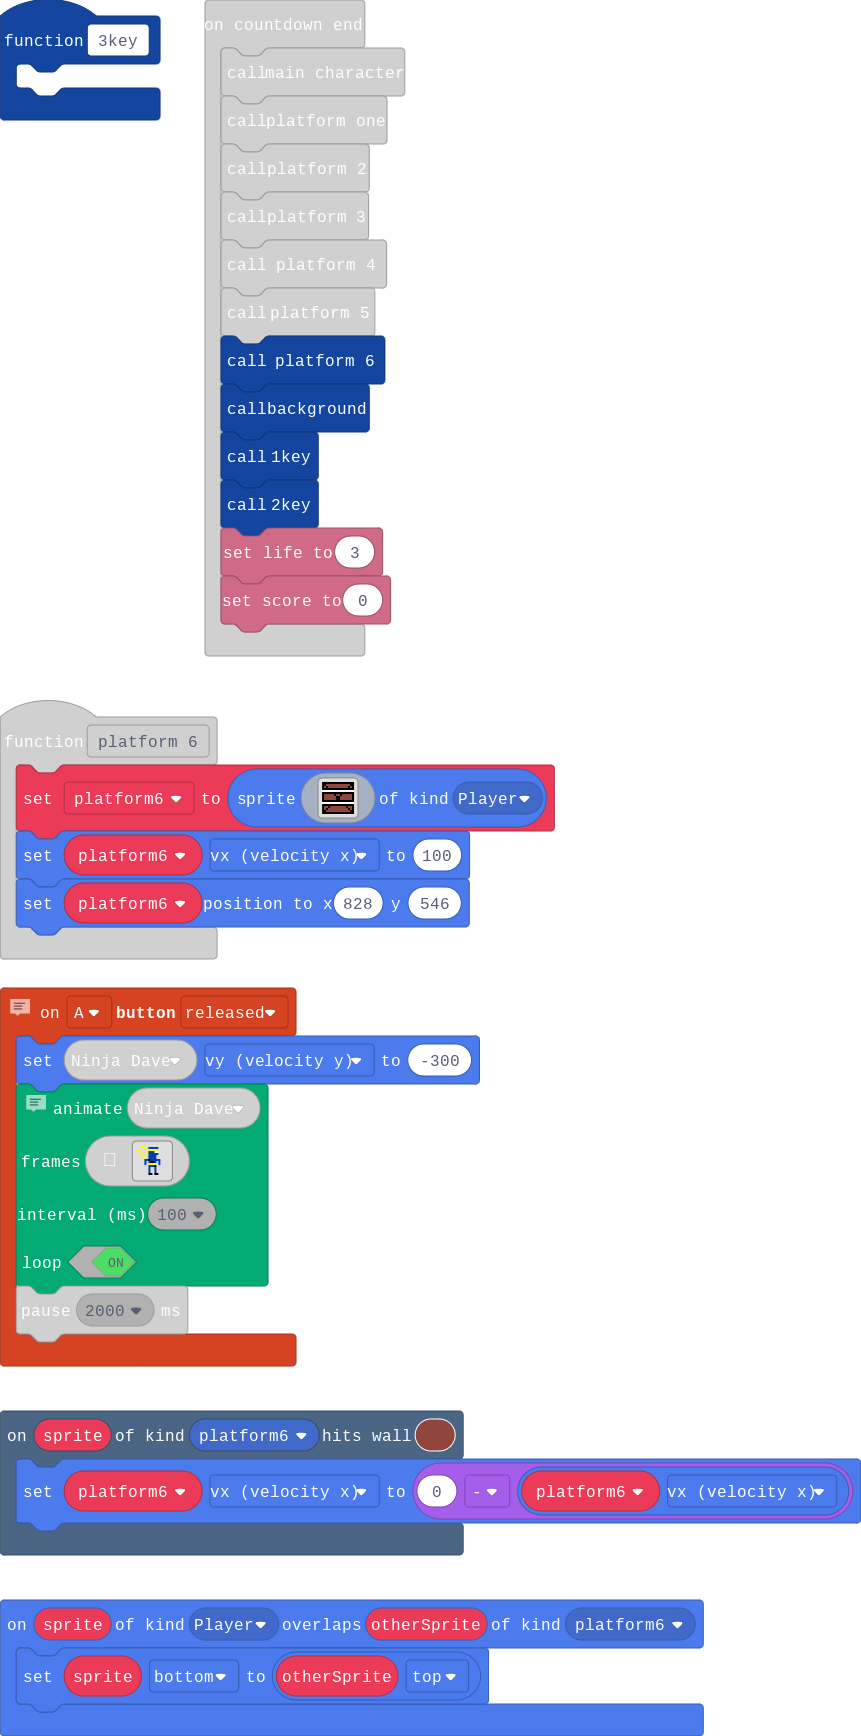
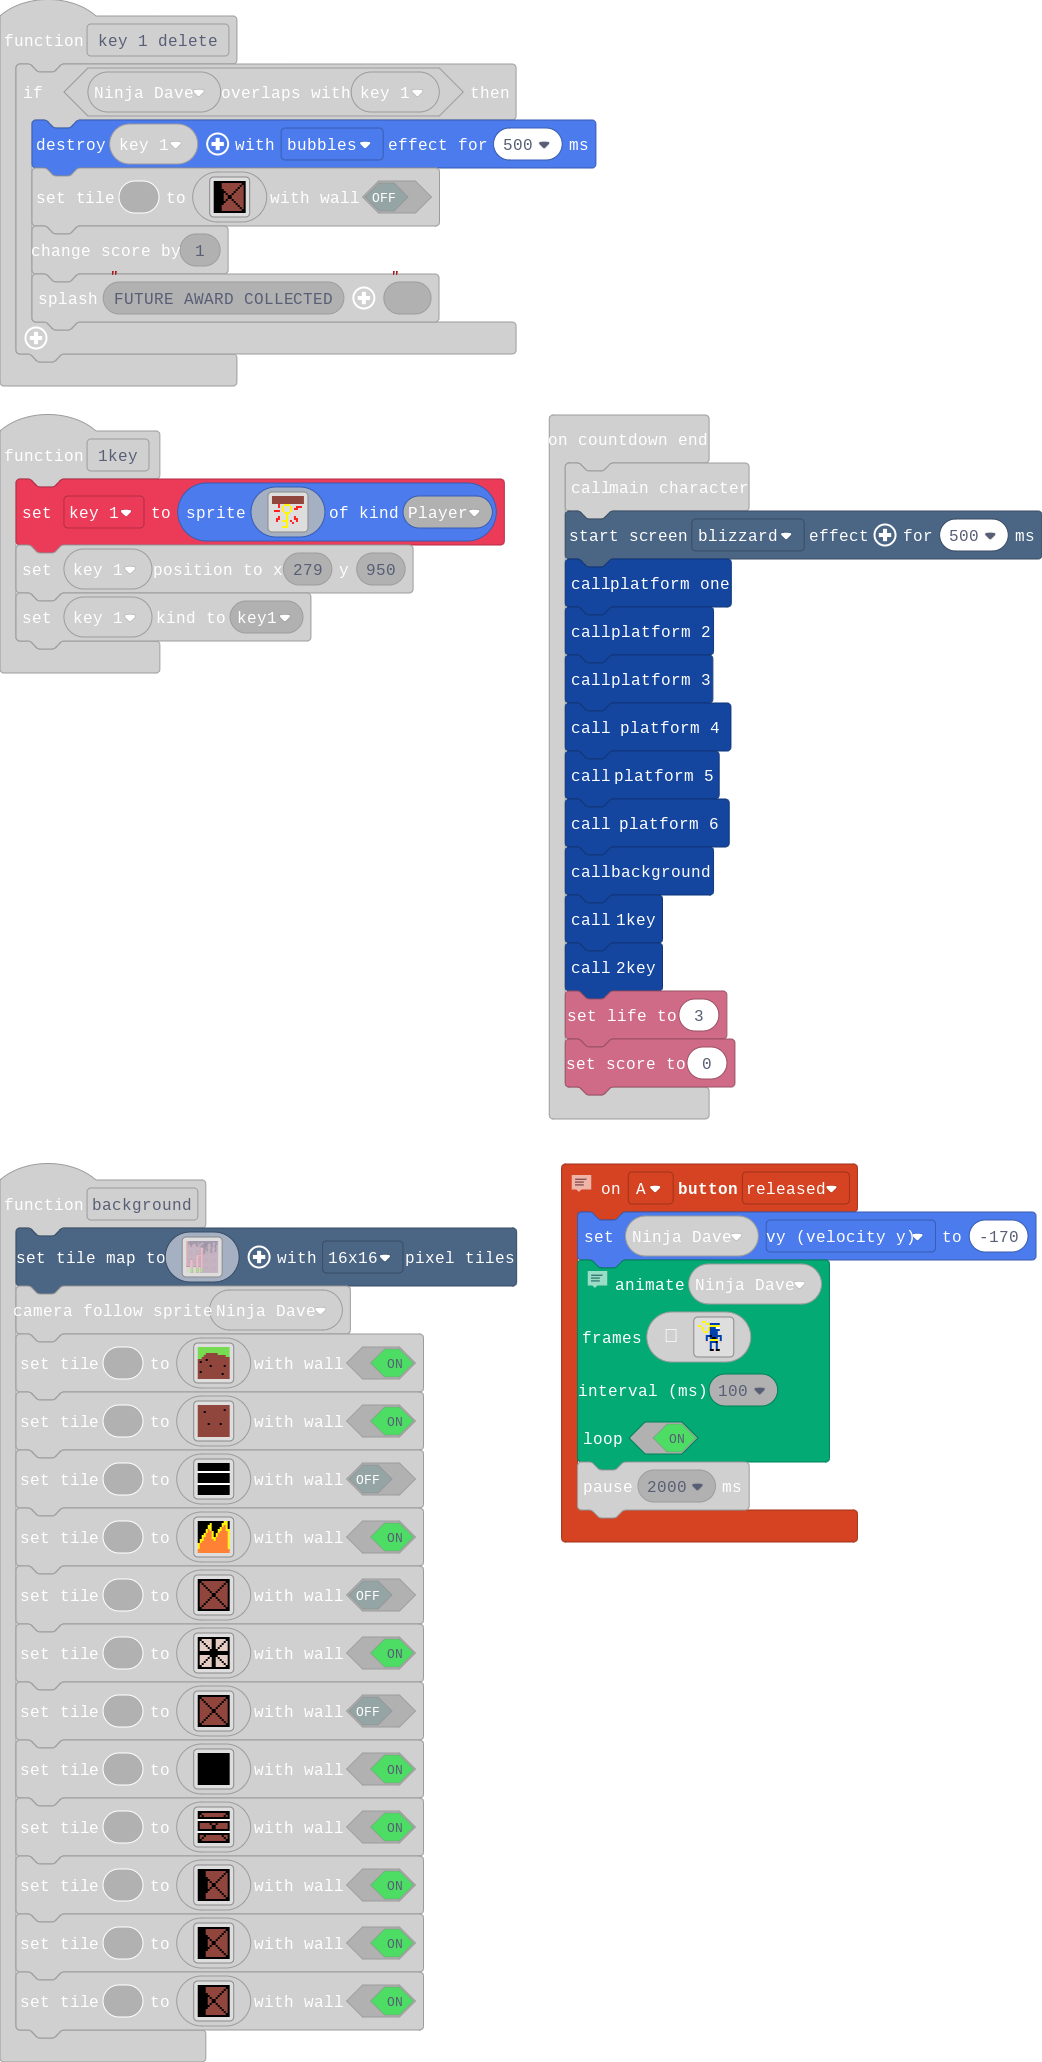
changes

diff --git a/main.ts b/main.ts
@@ -33,9 +33,6 @@ f f f f f f f f f f f f f f f f
     platform6.vx = 100
     platform6.setPosition(828, 546)
 }
-function _3key () {
-	
-}
 // Will create ninja
 function main_character () {
     // Moves the character
@@ -90,9 +87,12 @@ f f f f f f f f f f f f f f f f
     platform4.vx = 100
     platform4.setPosition(825, 651)
 }
+function _3key () {
+	
+}
 function key_1_delete () {
     if (Ninja_Dave.overlapsWith(key_1)) {
-        key_1.destroy()
+        key_1.destroy(effects.bubbles, 500)
         scene.setTile(6, img`
 f f f f f f f f f f f f f f f f 
 f f f f e e e e e e e e e e f f 
@@ -551,14 +551,14 @@ function background () {
 2 2 1 b b b b b b b b b b b b b b b b b b b b b b b b b b b b b b b b b b b b b b b b b b e 3 3 3 3 3 3 e b b c c c c c b b b c c c c c c c b b b b b b c c c c c b b b b b b b b b c c c c c b b b b b 
 2 2 1 b b b b b b b b b b b b b b b b b b b b b b b b b b b b b b b b b b b b b b b b b b e 5 3 3 3 3 3 e b b c c c c c b b b c c c c c c c b b b b b b c c c c c b b b b b b b b c c c c c c b b b b b 
 2 2 1 b b b b b b b b b b b b b b b b b b b b b b b b b b b b b b b b b b b b b b b b b b e 3 3 3 3 3 3 e b c c c c c c b b b b c c c c c c b b b b b b c c c c c b b b b b b b b c c c c c c b b b b b 
-2 2 1 b b b b b b b b b b b b b b b b b b b b b b b b b b b b b b b b b b b b b b b b b b e 3 3 3 3 3 5 e b c c c c c c b b b b c c c c c c b b b b b b c c c c c b b b b b b b b c c c c c c b b b b b 
+2 2 1 b b b b b b b b b b b b b b b b b b b b b b b b b b b b b b b b b b b b b b b b b b e 3 3 3 3 5 5 e b c c c c c c b b b b c c c c c c b b b b b b c c c c c b b b b b b b b c c c c c c b b b b b 
 2 2 1 b b b b b b b b b b b b b b b b b b b b b b b b b b b b b b b b b b b b b b b b b b e 3 3 3 3 3 3 e b c c c c c c b b b b b b b b b b b b b b b b c c c c c b b b b b b b b c c c c c c b b b b b 
 2 2 1 b b b b b b b b b b b b b b b b b b b b b b b b b b b b b b b b b b b b b b b b b b e 3 3 3 3 3 3 e b c c c c c c b b b b b b b b b b b b b b b b c c c c c b b b b b b b b c c c c c c b b b b b 
 2 2 1 b b b b b b b b b b b b b b b b b b b b b b b b b b b b b b b b b b b b b b b b b b e 3 3 3 3 3 3 e b c c c c c b b b b b b b b b b b b b b b b b c c c c c b b b b b b b b b b b b b b b b b b b 
+2 2 1 b b b b b b b b b b b b b b b b b b b b b b b b b b b b b b b b b b b b b b b b b b e 5 3 3 3 3 3 e c c c c c c b b b b b b b b b b b b b b b b b c c c c c b b b b b b b b b b b b b b b b b b b 
 2 2 1 b b b b b b b b b b b b b b b b b b b b b b b b b b b b b b b b b b b b b b b b b b e 3 3 3 3 3 3 e c c c c c c b b b b b b b b b b b b b b b b b c c c c c b b b b b b b b b b b b b b b b b b b 
 2 2 1 b b b b b b b b b b b b b b b b b b b b b b b b b b b b b b b b b b b b b b b b b b e 3 3 3 3 3 3 e c c c c c c b b b b b b b b b b b b b b b b b c c c c c b b b b b b b b b b b b b b b b b b b 
-2 2 1 b b b b b b b b b b b b b b b b b b b b b b b b b b b b b b b b b b b b b b b b b b e 3 3 3 3 3 3 e c c c c c c b b b b b b b b b b b b b b b b b c c c c c b b b b b b b b b b b b b b b b b b b 
-2 2 1 b b b b b b b b b b b b b b b b b b b b b b b b b b b b b b b b b b b b b b b b b b e 3 3 3 3 3 3 e c c c c c c b b b b b b b b b b b b b b b b b b b b b b b b b b b b b b b b b b b b b b b b b 
+2 2 1 b b b b b b b b b b b b b b b b b b b b b b b b b b b b b b b b b b b b b b b b b b e 3 3 3 3 3 5 e c c c c c c b b b b b b b b b b b b b b b b b b b b b b b b b b b b b b b b b b b b b b b b b 
 2 2 1 b b b b b b b b b b b b b b b b b b b b b b b b b b b b b b b b b b b b b b b b b b e 3 3 3 3 3 3 e c c c c c b b b b b b b b b b b b b b b b b b b b b b b b b b b b b b b b b b b b b b b b b b 
 2 2 1 b b b b b b b b b b b b b b b b b b b b b b b b b b b b b b b b b b b b b b b b b b e 3 3 3 3 3 3 e c c c c c b b b b b b b b b b b b b b b b b b b b b b b b b b b b b b b b b b b b b b b b b b 
 2 2 1 b b b b b b b b b b b b b b b b b b b b b b b b b b b b b b b b b b b b b b b b b b e 3 3 3 3 3 3 e b b b b b b b b b b b b b b b b b b b b b b b b b b b b b b b b b b b b b b b b b b b b b b b 
@@ -567,48 +567,48 @@ function background () {
 2 2 1 b b b b b b b b b b b b b b b b b b b b b b b b b b b b e 3 3 3 3 3 3 3 4 3 3 3 3 3 3 3 3 3 3 3 3 e b b b b b b b b b b b b b b b b b b b b b b b b b b b b b b b b b b b b b b b b b b b b b b b 
 2 2 1 b b b b b b b b b b b b b b b b b b b b b b b b b b b b e 3 3 3 3 3 3 3 4 3 3 3 3 3 3 3 3 3 3 3 3 e b b b b b b b b b b b b b b b b b b b b b b b b b b b b b b b b b b b b b b b b b b b b b b b 
 2 2 1 b b b b b b b b b b b b b b b b b b b b b b b b b b b b e 3 3 3 3 3 3 3 e e e e e e e 3 3 3 3 3 3 e b b b b b b b b b b b b b b b b b b b b b b b b b b b b b b b b b b b b b b b b b b b b b b b 
-2 2 1 b b b b b b b b b b b b b b b b b b b b b b b b b b b b e 5 3 3 3 3 3 3 e b b b b b e 3 3 3 3 3 3 e b b b b b b b b b b b b b b b b b b b b b b b b b b b b b b b b b b b b b b b b b b b b b b b 
+2 2 1 b b b b b b b b b b b b b b b b b b b b b b b b b b b b e 5 3 3 3 3 3 5 e b b b b b e 3 3 3 3 3 3 e b b b b b b b b b b b b b b b b b b b b b b b b b b b b b b b b b b b b b b b b b b b b b b b 
+2 2 1 b b b b b b b b b b b b b b b b b b b b b b b b b b b b e 3 3 3 3 3 3 3 e b b b b b e 5 3 3 3 3 3 e b b b b b b b b b b b b b b b b b b b b b b b b b b b b b b b b b b b b b b b b b b b b b b b 
+2 2 1 b b b b b b b b b b b b b b b b b b b b b b b b b b b b e 3 3 3 3 3 3 3 e b b b b b e 3 3 3 3 3 3 e b b b b b b b b b b b b b b b b b b b b b b b b b b b b b b b b b b b b b b b b b b b b b b b 
+2 2 1 b b b b b b b b b b b b b b b b b b b b b b b b b b b b e 5 3 3 3 3 3 5 e b b b b b e 3 3 3 3 3 5 e b b b b b b b b b b b b b b b b b b b b b b b b b b b b b b b b b b b b b b b b b b b b b b b 
+2 2 1 b b b b b b b b b b b b b b b b b b b b b b b b b b b b e 3 3 3 3 3 3 3 e b b b b b e 3 3 3 3 3 3 e b b b b b b b b b b b b b b b b b b b b b b b b b b b b b b b b b b b b b b b b b b b b b b b 
+2 2 1 b b b b b b b b b b b b b b b b b b b b b b b b b b b b e 3 3 3 3 3 3 3 e b b b b b e 5 3 3 3 3 3 e b b b b b b b b b b b b b b b b b b b b b b b b b b b b b b b b b b b b b b b b b b b b b b b 
 2 2 1 b b b b b b b b b b b b b b b b b b b b b b b b b b b b e 3 3 3 3 3 3 3 e b b b b b e 3 3 3 3 3 3 e b b b b b b b b b b b b b b b b b b b b b b b b b b b b b b b b b b b b b b b b b b b b b b b 
 2 2 1 b b b b b b b b b b b b b b b b b b b b b b b b b b b b e 3 3 3 3 3 3 3 e b b b b b e 3 3 3 3 3 3 e b b b b b b b b b b b b b b b b b b b b b b b b b b b b b b b b b b b b b b b b b b b b b b b 
-2 2 1 b b b b b b b b b b b b b b b b b b b b b b b b b b b b e 5 3 3 3 3 3 3 e b b b b b e 3 3 3 3 3 3 e b b b b b b b b b b b b b b b b b b b b b b b b b b b b b b b b b b b b b b b b b b b b b b b 
+2 2 1 b b b b b b b b b b b b b b b b b b b b b b b b b b b b e 3 3 3 3 3 3 3 e b b b b b e 3 3 3 3 3 5 e b b b b b b b b b b b b b b b b b b b b b b b b b b b b b b b b b b b b b b b b b b b b b b b 
 2 2 1 b b b b b b b b b b b b b b b b b b b b b b b b b b b b e 3 3 3 3 3 3 3 e b b b b b e 3 3 3 3 3 3 e b b b b b b b b b b b b b b b b b b b b b b b b b b b b b b b b b b b b b b b b b b b b b b b 
-2 2 1 b b b b b b b b b b b b b b b b b b b b b b b b b b b b e 3 3 3 3 3 3 3 e b b b b b e 3 3 3 3 3 3 e b b b b b b b b b b b b b b b b b b b b b b b b b b b b b b b b b b b b b b b b b b b b b b b 
-2 2 1 b b b b b b b b b b b b b b b b b b b b b b b b b b b b e 3 3 3 3 3 3 3 e b b b b b e 3 3 3 3 3 3 e b b b b b b b b b b b b b b b b b b b b b b b b b b b b b b b b b b b b b b b b b b b b b b b 
-2 2 1 b b b b b b b b b b b b b b b b b b b b b b b b b b b b e 3 3 3 3 3 3 3 e b b b b b e 3 3 3 3 3 3 e b b b b b b b b b b b b b b b b b b b b b b b b b b b b b b b b b b b b b b b b b b b b b b b 
-2 2 1 b b b b b b b b b b b b b b b b b b b b b b b b b b b b e 3 3 3 3 3 3 3 e b b b b b e 3 3 3 3 3 3 e b b b b b b b b b b b b b b b b b b b b b b b b b b b b b b b b b b b b b b b b b b b b b b b 
-2 2 1 b b b b b b b b b b b b b b b b b b b b b b b b b b b b e 3 3 3 3 3 3 3 e b b b b b e 3 3 3 3 3 3 e b b b b b b b b b b b b b b b b b b b b b b b b b b b b b b b b b b b b b b b b b b b b b b b 
-2 2 1 b b b b b b b b b b b b b b b b b b b b b b b b b b b b e 3 3 3 3 3 3 3 e b b b b b e 3 3 3 3 3 3 e b b b b b b b b b b b b b b b b b b b b b b b b b b b b b b b b b b b b b b b b b b b b b b b 
+2 2 1 b b b b b b b b b b b b b b b b b b b b b b b b b b b b e 3 3 3 3 3 3 3 e b b b b b e 5 3 3 3 3 3 e b b b b b b b b b b b b b b b b b b b b b b b b b b b b b b b b b b b b b b b b b b b b b b b 
 2 2 1 b b b b b b b b b e e e e e e e e e e b b b b b b b b b e 5 3 3 3 3 3 3 e b b b b b e 3 3 3 3 3 3 e b b b b b b b b b b b b b b b b b b b b b b b b b b b b b b b b b b b b b b b b b b b b b b b 
 2 2 1 b b b b b b b b b e 3 3 3 3 3 3 3 3 e b b b b b b b b b e 3 3 3 3 3 3 3 e b b b b b e 3 3 3 3 3 3 e b b b b b b b b b b b b b b b b b b b b b b b b b b b b b b b b b b b b b b b b b b b b b b b 
-2 2 1 b b b b b b b b b e 3 3 3 3 3 3 3 3 e e e e e e e e e e e 3 3 3 3 3 3 3 e b b b b b e 3 3 3 3 3 3 e b b b b b b b b b b b b b b b b b b b b b b b b b b b b b b b b b b b b b b b b b b b b b b b 
+2 2 1 b b b b b b b b b e 3 3 3 3 3 3 3 3 e e e e e e e e e e e 3 3 3 3 3 3 3 e b b b b b e 3 3 3 3 3 5 e b b b b b b b b b b b b b b b b b b b b b b b b b b b b b b b b b b b b b b b b b b b b b b b 
 2 2 1 b b b b b b b b b e 3 3 3 3 3 3 3 3 6 3 3 3 3 3 3 3 3 3 3 3 3 3 3 3 3 5 e b b b b b e 3 3 3 3 3 3 e b b b b b b b b b b b b b b b b b b b b b b b b b b b b b b b b b b b b b b b b b b b b b b b 
 2 2 1 b b b b b b b b b e 5 3 3 3 3 3 3 3 6 3 3 3 3 3 3 3 3 3 3 3 3 3 3 3 3 3 e b b b b b e 3 3 3 3 3 3 e b b b b b b b b b b b b b b b b b b b b b b b b b b b b b b b b b b b b b b b b b b b b b b b 
-2 2 1 b b b b b b b b b e 3 3 3 3 3 3 3 3 e e e e e e e e e e e 3 3 3 3 3 3 3 e b b b b b e 3 3 3 3 3 3 e b b b b b b b b b b b b b b b b b b b b b b b b b b b b b b b b b b b b b b b b b b b b b b b 
+2 2 1 b b b b b b b b b e 3 3 3 3 3 3 3 3 e e e e e e e e e e e 3 3 3 3 3 3 3 e b b b b b e 3 3 3 5 3 3 e b b b b b b b b b b b b b b b b b b b b b b b b b b b b b b b b b b b b b b b b b b b b b b b 
 2 2 1 b b b b b b b b b e 3 3 3 3 5 3 3 3 e b b b b b b b b b e 3 3 3 3 3 3 3 e b b b b b e 3 3 3 3 3 3 e b b b b b b b b b b b b b b b b b b b b b b b b b b b b b b b b b b b b b b b b b b b b b b b 
+2 2 1 b b b b b b b b b e 3 3 3 3 3 3 3 5 e b b b b b b b b b e 5 3 3 3 3 3 3 e b b b b b e 3 3 3 3 3 3 e b b b b b b b b b b b b b b b b b b b b b b b b b b b b b b b b b b b b b b b b b b b b b b b 
+2 2 1 b b b b b b b b b e 3 3 3 3 3 3 3 3 e b b b b b b b b b e 3 3 3 3 3 3 5 e b b b b b e 3 3 3 3 3 3 e b b b b b b b b b b b b b b b b b b b b b b b b b b b b b b b b b b b b b b b b b b b b b b b 
+2 2 1 b b b b b b b b b e 5 3 3 3 3 3 3 3 e b b b b b b b b b e 3 3 3 3 3 3 3 e b b b b b e 3 3 3 3 3 3 e b b b b b b b b b b b b b b b b b b b b b b b b b b b b b b b b b b b b b b b b b b b b b b b 
+2 2 1 b b b b b b b b b e 3 3 3 3 3 3 3 3 e b b b b b b b b b e 3 3 3 3 3 3 3 e b b b b b e 3 3 3 3 3 3 e b b b b b b b b b b b b b b b b b b b b b b b b b b b b b b b b b b b b b b b b b b b b b b b 
+2 2 1 b b b b b b b b b e 3 3 3 3 3 3 3 3 e b b b b b b b b b e 5 3 3 3 3 3 3 e b b b b b e 3 3 3 3 3 3 e b b b b b b b b b b b b b b b b b b b b b b b b b b b b b b b b b b b b b b b b b b b b b b b 
+2 2 1 b b b b b b b b b e 3 3 3 3 3 3 3 3 e b b b b b b b b b e 3 3 3 3 3 3 3 e b b b b b e 3 3 3 3 3 3 e b b b b b b b b b b b b b b b b b b b b b b b b b b b b b b b b b b b b b b b b b b b b b b b 
 2 2 1 b b b b b b b b b e 3 3 3 3 3 3 3 5 e b b b b b b b b b e 3 3 3 3 3 3 3 e b b b b b e 3 3 3 3 3 3 e b b b b b b b b b b b b b b b b b b b b b b b b b b b b b b b b b b b b b b b b b b b b b b b 
 2 2 1 b b b b b b b b b e 3 3 3 3 3 3 3 3 e b b b b b b b b b e 3 3 3 3 3 3 3 e b b b b b e 3 3 3 3 3 3 e b b b b b b b b b b b b b b b b b b b b b b b b b b b b b b b b b b b b b b b b b b b b b b b 
 2 2 1 b b b b b b b b b e 5 3 3 3 3 3 3 3 e b b b b b b b b b e 3 3 3 3 3 3 3 e b b b b b e 3 3 3 3 3 3 e b b b b b b b b b b b b b b b b b b b b b b b b b b b b b b b b b b b b b b b b b b b b b b b 
-2 2 1 b b b b b b b b b e 3 3 3 3 3 3 3 3 e b b b b b b b b b e 3 3 3 3 3 3 3 e b b b b b e 3 3 3 3 3 3 e b b b b b b b b b b b b b b b b b b b b b b b b b b b b b b b b b b b b b b b b b b b b b b b 
-2 2 1 b b b b b b b b b e 3 3 3 3 3 3 3 3 e b b b b b b b b b e 3 3 3 3 3 3 3 e b b b b b e 3 3 3 3 3 3 e b b b b b b b b b b b b b b b b b b b b b b b b b b b b b b b b b b b b b b b b b b b b b b b 
-2 2 1 b b b b b b b b b e 3 3 3 3 3 3 3 3 e b b b b b b b b b e 3 3 3 3 3 3 3 e b b b b b e 3 3 3 3 3 3 e b b b b b b b b b b b b b b b b b b b b b b b b b b b b b b b b b b b b b b b b b b b b b b b 
-2 2 1 b b b b b b b b b e 3 3 3 3 3 3 3 5 e b b b b b b b b b e 3 3 3 3 3 3 3 e b b b b b e 3 3 3 3 3 3 e b b b b b b b b b b b b b b b b b b b b b b b b b b b b b b b b b b b b b b b b b b b b b b b 
-2 2 1 b b b b b b b b b e 3 3 3 3 3 3 3 3 e b b b b b b b b b e 3 3 3 3 3 3 3 e b b b b b e 3 3 3 3 3 3 e b b b b b b b b b b b b b b b b b b b b b b b b b b b b b b b b b b b b b b b b b b b b b b b 
-2 2 1 b b b b b b b b b e 5 3 3 3 3 3 3 3 e b b b b b b b b b e 3 3 3 3 3 3 3 e b b b b b e 3 3 3 3 3 3 e b b b b b b b b b b b b b b b b b b b b b b b b b b b b b b b b b b b b b b b b b b b b b b b 
-2 2 1 b b b b b b b b b e 3 3 3 3 3 3 3 3 e b b b b b b b b b e 3 3 3 3 3 3 3 e b b b b b e 3 3 3 3 3 3 e b b b b b b b b b b b b b b b b b b b b b b b b b b b b b b b b b b b b b b b b b b b b b b b 
+2 2 1 b b b b b b b b b e 3 3 3 3 3 3 3 3 e b b b b b b b b b e 3 3 3 3 3 3 5 e b b b b b e 3 3 3 3 3 3 e b b b b b b b b b b b b b b b b b b b b b b b b b b b b b b b b b b b b b b b b b b b b b b b 
 2 2 1 b b b b b b b b b e 3 3 3 3 3 3 3 3 e b b b b b b b b b e 3 3 3 3 3 3 3 e b b b b b e 3 3 3 3 3 3 e b b b b b b b b b b b b b b b b b b b b b b b b b b b b b b b b b b b b b b b b b b b b b b b 
 2 2 1 b b b b b b b b b e 3 3 3 3 3 3 3 5 e b b b b b b b b b e 3 3 3 3 3 3 3 e b b b b b e 3 3 3 3 3 3 e b b b b b b b b b b b b b b b b b b b b b b b b b b b b b b b b b b b b b b b b b b b b b b b 
-2 2 1 b b b b b b b b b e 3 3 3 3 3 3 3 3 e b b b b b b b b b e 3 3 3 3 3 3 3 e b b b b b e 3 3 3 3 3 3 e b b b b b b b b b b b b b b b b b b b b b b b b b b b b b b b b b b b b b b b b b b b b b b b 
+2 2 1 b b b b b b b b b e 3 3 3 3 3 3 3 3 e b b b b b b b b b e 3 3 3 5 3 3 3 e b b b b b e 3 3 3 3 3 3 e b b b b b b b b b b b b b b b b b b b b b b b b b b b b b b b b b b b b b b b b b b b b b b b 
 2 2 b b b b b b b b b b b 3 3 3 3 3 3 3 3 e b b b b b b b b b e 3 3 3 3 3 3 3 e b b b b b e 3 3 3 3 3 3 e b b b b b b b b b b b b b b b b b b b b b b b b b b b b b b b b b b b b b b b b b b b b b b b 
 2 2 b b b b b b b b b b b 3 3 3 3 3 3 3 3 e b b b b b b b b b e 3 3 3 3 3 3 3 e b b b b b e 3 3 3 3 3 3 e b b b b b b b b b b b b b b b b b b b b b b b b b b b b b b b b b b b b b b b b b b b b b b b 
 f f f f f f f f f f f f f 3 3 3 3 3 3 3 3 e f f f f f f f f f e 3 3 3 3 3 3 3 e f f f f f e 3 3 3 3 3 3 e b b b b b b b b b b b b b b b b b b b b b b b b b b b b b b b b b b b b b b b b b b b b b b b 
 d d d d d d d d d d d d d 3 3 3 3 3 3 3 3 e d d d d d d d d d e 3 3 3 3 3 3 3 e d d d d d e 3 3 3 3 3 3 e b b b b b b b b b b b b b b b b b b b b b b b b b b b b b b b b b b b b b b b b b b b b b b b 
+d d d d d d d d d d d d d 5 3 3 3 3 3 3 3 e d d d d d d d d d e 3 3 3 3 3 3 3 e d d d d d e 3 3 3 3 3 3 e b b b b b b b b b b b b b b b b b b b b b b b b b b b b b b b b b b b b b b b b b b b b b b b 
 d d d d d d d d d d d d d 3 3 3 3 3 3 3 3 e d d d d d d d d d e 3 3 3 3 3 3 3 e d d d d d e 3 3 3 3 3 3 e b b b b b b b b b b b b b b b b b b b b b b b b b b b b b b b b b b b b b b b b b b b b b b b 
-d d d d d d d d d d d d d 3 3 3 3 3 3 3 3 e d d d d d d d d d e 3 3 3 3 3 3 3 e d d d d d e 3 3 3 3 3 3 e b b b b b b b b b b b b b b b b b b b b b b b b b b b b b b b b b b b b b b b b b b b b b b b 
+d d d d d d d d d d d d d 7 7 7 7 7 7 7 7 e d d d d d d d d d e 7 7 7 7 7 7 7 e d d d d d e 7 7 7 7 7 7 e b b b b b b b b b b b b b b b b b b b b b b b b b b b b b b b b b b b b b b b b b b b b b b b 
+d d d d d d d d d d d d d 7 7 7 7 7 7 7 5 e d d d d d d d d d e 7 7 7 7 7 7 7 e d d d d d e 7 7 7 7 7 7 e b b b b b b b b b b b b b b b b b b b b b b b b b b b b b b b b b b b b b b b b b b b b b b b 
 d d d d d d d d d d d d d 7 7 7 7 7 7 7 7 e d d d d d d d d d e 7 7 7 7 7 7 7 e d d d d d e 7 7 7 7 7 7 e b b b b b b b b b b b b b b b b b b b b b b b b b b b b b b b b b b b b b b b b b b b b b b b 
 d d d d d d d d d d d d d 7 7 7 7 7 7 7 7 e d d d d d d d d d e 7 7 7 7 7 7 7 e d d d d d e 7 7 7 7 7 7 e b b b b b b b b b b b b b b b b b b b b b b b b b b b b b b b b b b b b b b b b b b b b b b b 
-d d d d d d d d d d d d d 7 7 7 7 7 7 7 7 e d d d d d d d d d e 7 7 7 7 7 7 7 e d d d d d e 7 7 7 7 7 7 e b b b b b b b b b b b b b b b b b b b b b b b b b b b b b b b b b b b b b b b b b b b b b b b 
-d d d d d d d d d d d d d 7 7 7 7 7 7 7 7 e d d d d d d d d d e 7 7 7 7 7 7 7 e d d d d d e 7 7 7 7 7 7 e b b b b b b b b b b b b b b b b b b b b b b b b b b b b b b b b b b b b b b b b b b b b b b b 
-d d d d d d d d d d d d d 7 7 7 7 7 7 7 7 e d d d d d d d d d e 7 7 7 7 7 7 7 e d d d d d e 7 7 7 7 7 7 e b b b b b b b b b b b b b b b b b b b b b b b b b b b b b b b b b b b b b b b b b b b b b b b 
+d d d d d d d d d d d d d 5 7 7 7 7 7 7 7 e d d d d d d d d d e 7 7 7 7 7 7 7 e d d d d d e 7 7 7 7 7 7 e b b b b b b b b b b b b b b b b b b b b b b b b b b b b b b b b b b b b b b b b b b b b b b b 
 d d d d d d d d d d d d d 7 7 7 7 7 7 7 7 e d d d d d d d d d e 7 7 7 7 7 7 7 e d d d d d e 7 7 7 7 7 7 e b b b b b b b b b b b b b b b b b b b b b b b b b b b b b b b b b b b b b b b b b b b b b b b 
 d d d d d d d d d d d d d 7 7 7 7 7 7 7 7 e d d d d d d d d d e 7 7 7 7 7 7 7 e d d d d d e 7 7 7 7 7 7 e b b b b b b b b b b b b b b b b b b b b b b b b b b b b b b b b b b b b b b b b b b b b b b b 
 d d d d d d d d d d d d d 7 7 7 7 7 7 7 7 e d d d d d d d d d e 7 7 7 7 7 7 7 e d d d d d e 7 7 7 7 7 7 e b b b b b b b b b b b b b b b b b b b b b b b b b b b b b b b b b b b b b b b b b b b b b b b 
@@ -857,18 +857,18 @@ e e e e e e e e e e e e e e e e
 e e e e e e e e e e e e e e e e 
 e e e e e e e e e e e e e e e e 
 e e e e e e e e e e e e e e e e 
-. . . . . . 1 1 1 . . . . . . . 
-. . . . . 1 . . . 1 . . . . . . 
-. . . . . 1 . . . 1 . . . . . . 
-. . . . . 1 . . . 1 . . . . . . 
-. . . . . . 1 1 1 . . . . . . . 
-. . . . . . . 1 . . . . . . . . 
-. . . . . . 1 1 . . . . . . . . 
-. . . . . . . 1 . . . . . . . . 
-. . . . . . 1 1 . . . . . . . . 
-. . . . . . . . . . . . . . . . 
-. . . . . . . . . . . . . . . . 
-. . . . . . . . . . . . . . . . 
+. . . 2 . . 5 5 5 . . . . . . . 
+. . . 2 . 5 . . . 5 . . 2 2 2 . 
+. . . . . 5 . . . 5 . 2 2 . . . 
+. 2 2 2 . 5 . . . 5 . . . . . . 
+. . . . . . 5 5 5 . . . . . . . 
+. . . . . . . 5 . . . . . . . . 
+. . . 2 . . . 5 . . . 2 . . . . 
+. . 2 2 . . . 5 . . . 2 2 . . . 
+. . 2 . . 5 5 5 . 2 . . 2 . . . 
+. . . . . . . 5 . . 2 . . . . . 
+. . . . . . . 5 . . . . . . . . 
+. . . . . 5 5 5 . . . . . . . . 
 `, SpriteKind.Player)
     key_1.setPosition(279, 950)
     key_1.setKind(SpriteKind.key1)
@@ -1044,6 +1044,7 @@ scene.onHitTile(SpriteKind.platform2, 14, function (sprite) {
 })
 info.onCountdownEnd(function () {
     main_character()
+    effects.blizzard.startScreenEffect(500)
     platform_one()
     platform_2()
     platform_3()
@@ -1124,7 +1125,7 @@ f f f f f f f f f f f f f f f f
 }
 // This button will make my main character jump
 controller.A.onEvent(ControllerButtonEvent.Released, function () {
-    Ninja_Dave.vy = -300
+    Ninja_Dave.vy = -170
     // This will animate my character
     animation.runImageAnimation(
     Ninja_Dave,
